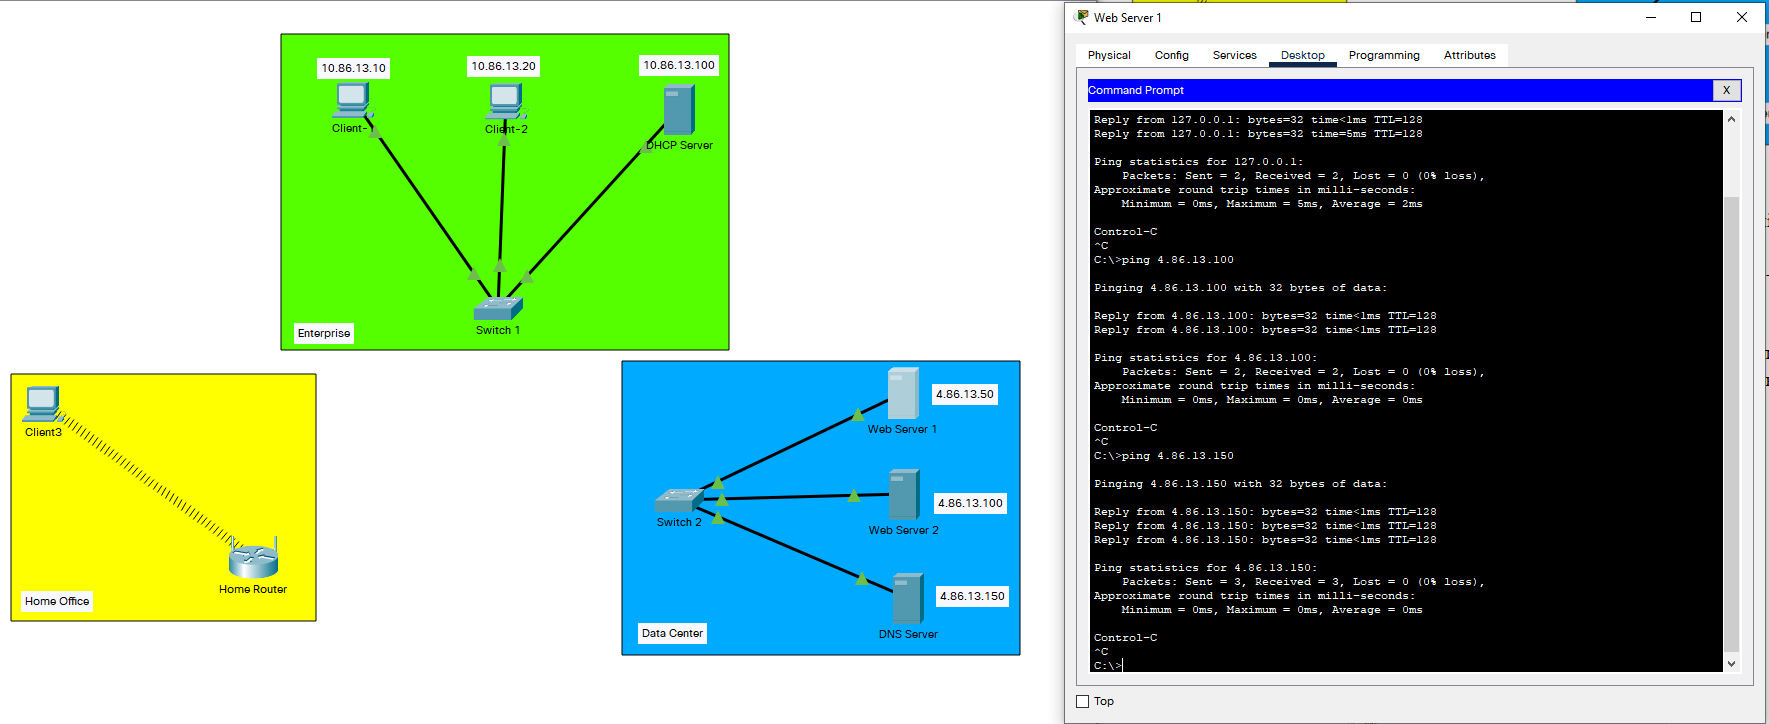
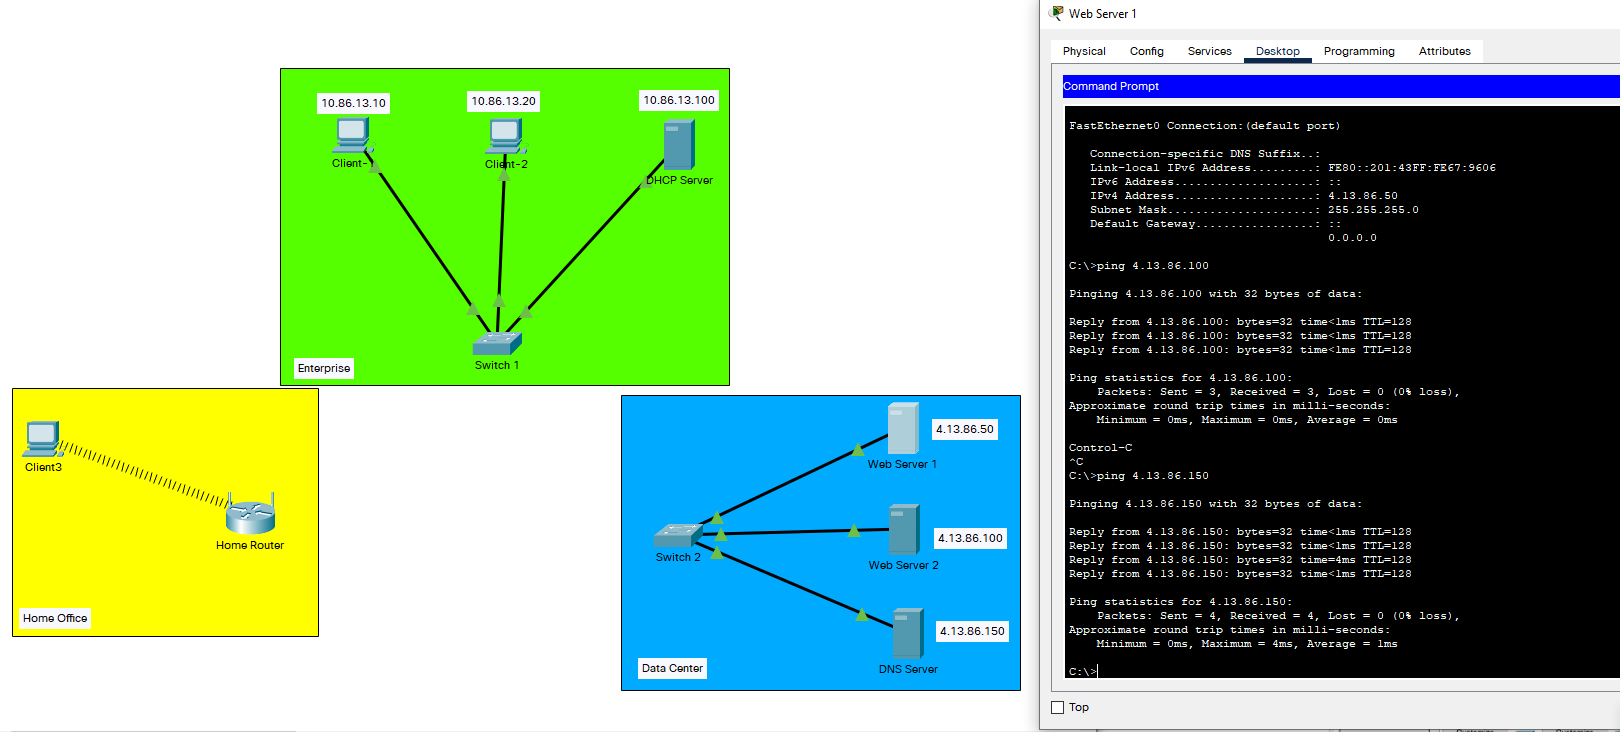
cnange information task 3.2 in readme.md

Changed region(s): [[0.0, 0.0, 1.0, 1.0], [0.4321, 0.6077, 0.463, 0.6381], [0.3395, 0.3343, 0.3704, 0.3646]]

diff --git a/m2/readme.md b/m2/readme.md
@@ -24,3 +24,59 @@
 *Destination IP Address: 192.168.88.103 <br/>
 *Source TCP Port : 443 <br/>
 *Destination TCP port: 60184 <br/>
+
+# Task 3.2 Vlan and connection of different networks
+
+5 and 6 Check ping to the DefaultGateways
+
+* ![](screen/Screenshot_5.png)
+
+* ![](screen/Screenshot_6.png)
+
+* ![](screen/Screenshot_7.png)
+
+7. Change mask to the 255.255.255.192 and check ping.
+
+* ![](screen/Screenshot_8.png)
+
+* ![](screen/Screenshot_9.png)
+
+8. There is a ping only between web server 1 and the gateway, since they are in the same subnet range.
+
+* ![](screen/Screenshot_10.png)
+
+10. There will be no ping due to the lack of routes between Vlans on the switch
+
+* ![](screen/Screenshot_11.png)
+
+12. Configuring inter-Vlan routing
+
+* ![](screen/Screenshot_12.png)
+
+Router#conf t
+Enter configuration commands, one per line.  End with CNTL/Z.
+Router(config-if)#interface GigabitEthernet0/0.2
+Router(config-subif)#encapsulation dot1Q 2
+Router(config-subif)#eneip address 4.13.86.1 255.255.255.192
+Router(config-subif)#interface GigabitEthernet0/0.3
+Router(config-subif)#
+%LINK-5-CHANGED: Interface GigabitEthernet0/0.3, changed state to up
+
+%LINEPROTO-5-UPDOWN: Line protocol on Interface GigabitEthernet0/0.3, changed state to up
+interface GigabitEthernet0/0.3
+Router(config-subif)#interface GigabitEthernet0/0.3
+Router(config-subif)#encapsuip address 4.13.86.1 255.255.255.192ip address 4.13.86.65 255.255interface GigabitEthernet0/0.3interface GigabitEthernet0/0.4
+Router(config-subif)#
+%LINK-5-CHANGED: Interface GigabitEthernet0/0.4, changed state to up
+
+%LINEPROTO-5-UPDOWN: Line protocol on Interface GigabitEthernet0/0.4, changip address 4.13.encapsulation dot1Q 3encapsip address 4.13.86.65 255.255.255.192ip address 4.13.86.129 255.255.255.192
+Router(config-subif)#eiexit
+Router(config)#txtexit
+
+15. Change Gateways
+
+* ![](screen/Screenshot_13.png)
+
+16. Testing connection by ping
+
+* ![](screen/Screenshot_14.png)
